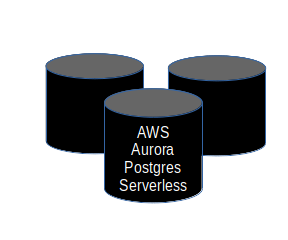
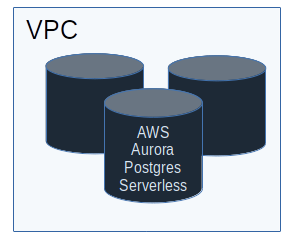
#3 Update documentation

diff --git a/docs/README.md b/docs/README.md
@@ -2,11 +2,11 @@
 
 ## Synopsis
 
-The `aws-cloudformation-database-cluster` demonstrates a Senzing database cluster using an AWS Cloudformation template.
+`aws-cloudformation-database-cluster` deploys a Senzing database cluster into AWS using a Cloudformation template.
 
 ## Overview
 
-The `aws-cloudformation-database-cluster` demonstration is an AWS Cloudformation template that creates the following resources:
+The `aws-cloudformation-database-cluster` AWS Cloudformation template creates the following resources:
 
 1. AWS infrastructure
     1. VPC
@@ -18,7 +18,7 @@ The `aws-cloudformation-database-cluster` demonstration is an AWS Cloudformation
 1. AWS services
     1. AWS Relational Data Service (RDS) Aurora Postgres Serverless
 
-The following diagram shows a simplified representation of this docker composition.
+The following diagram shows a simplified representation of this deployment.
 
 ![Image of architecture](architecture.png)
 
